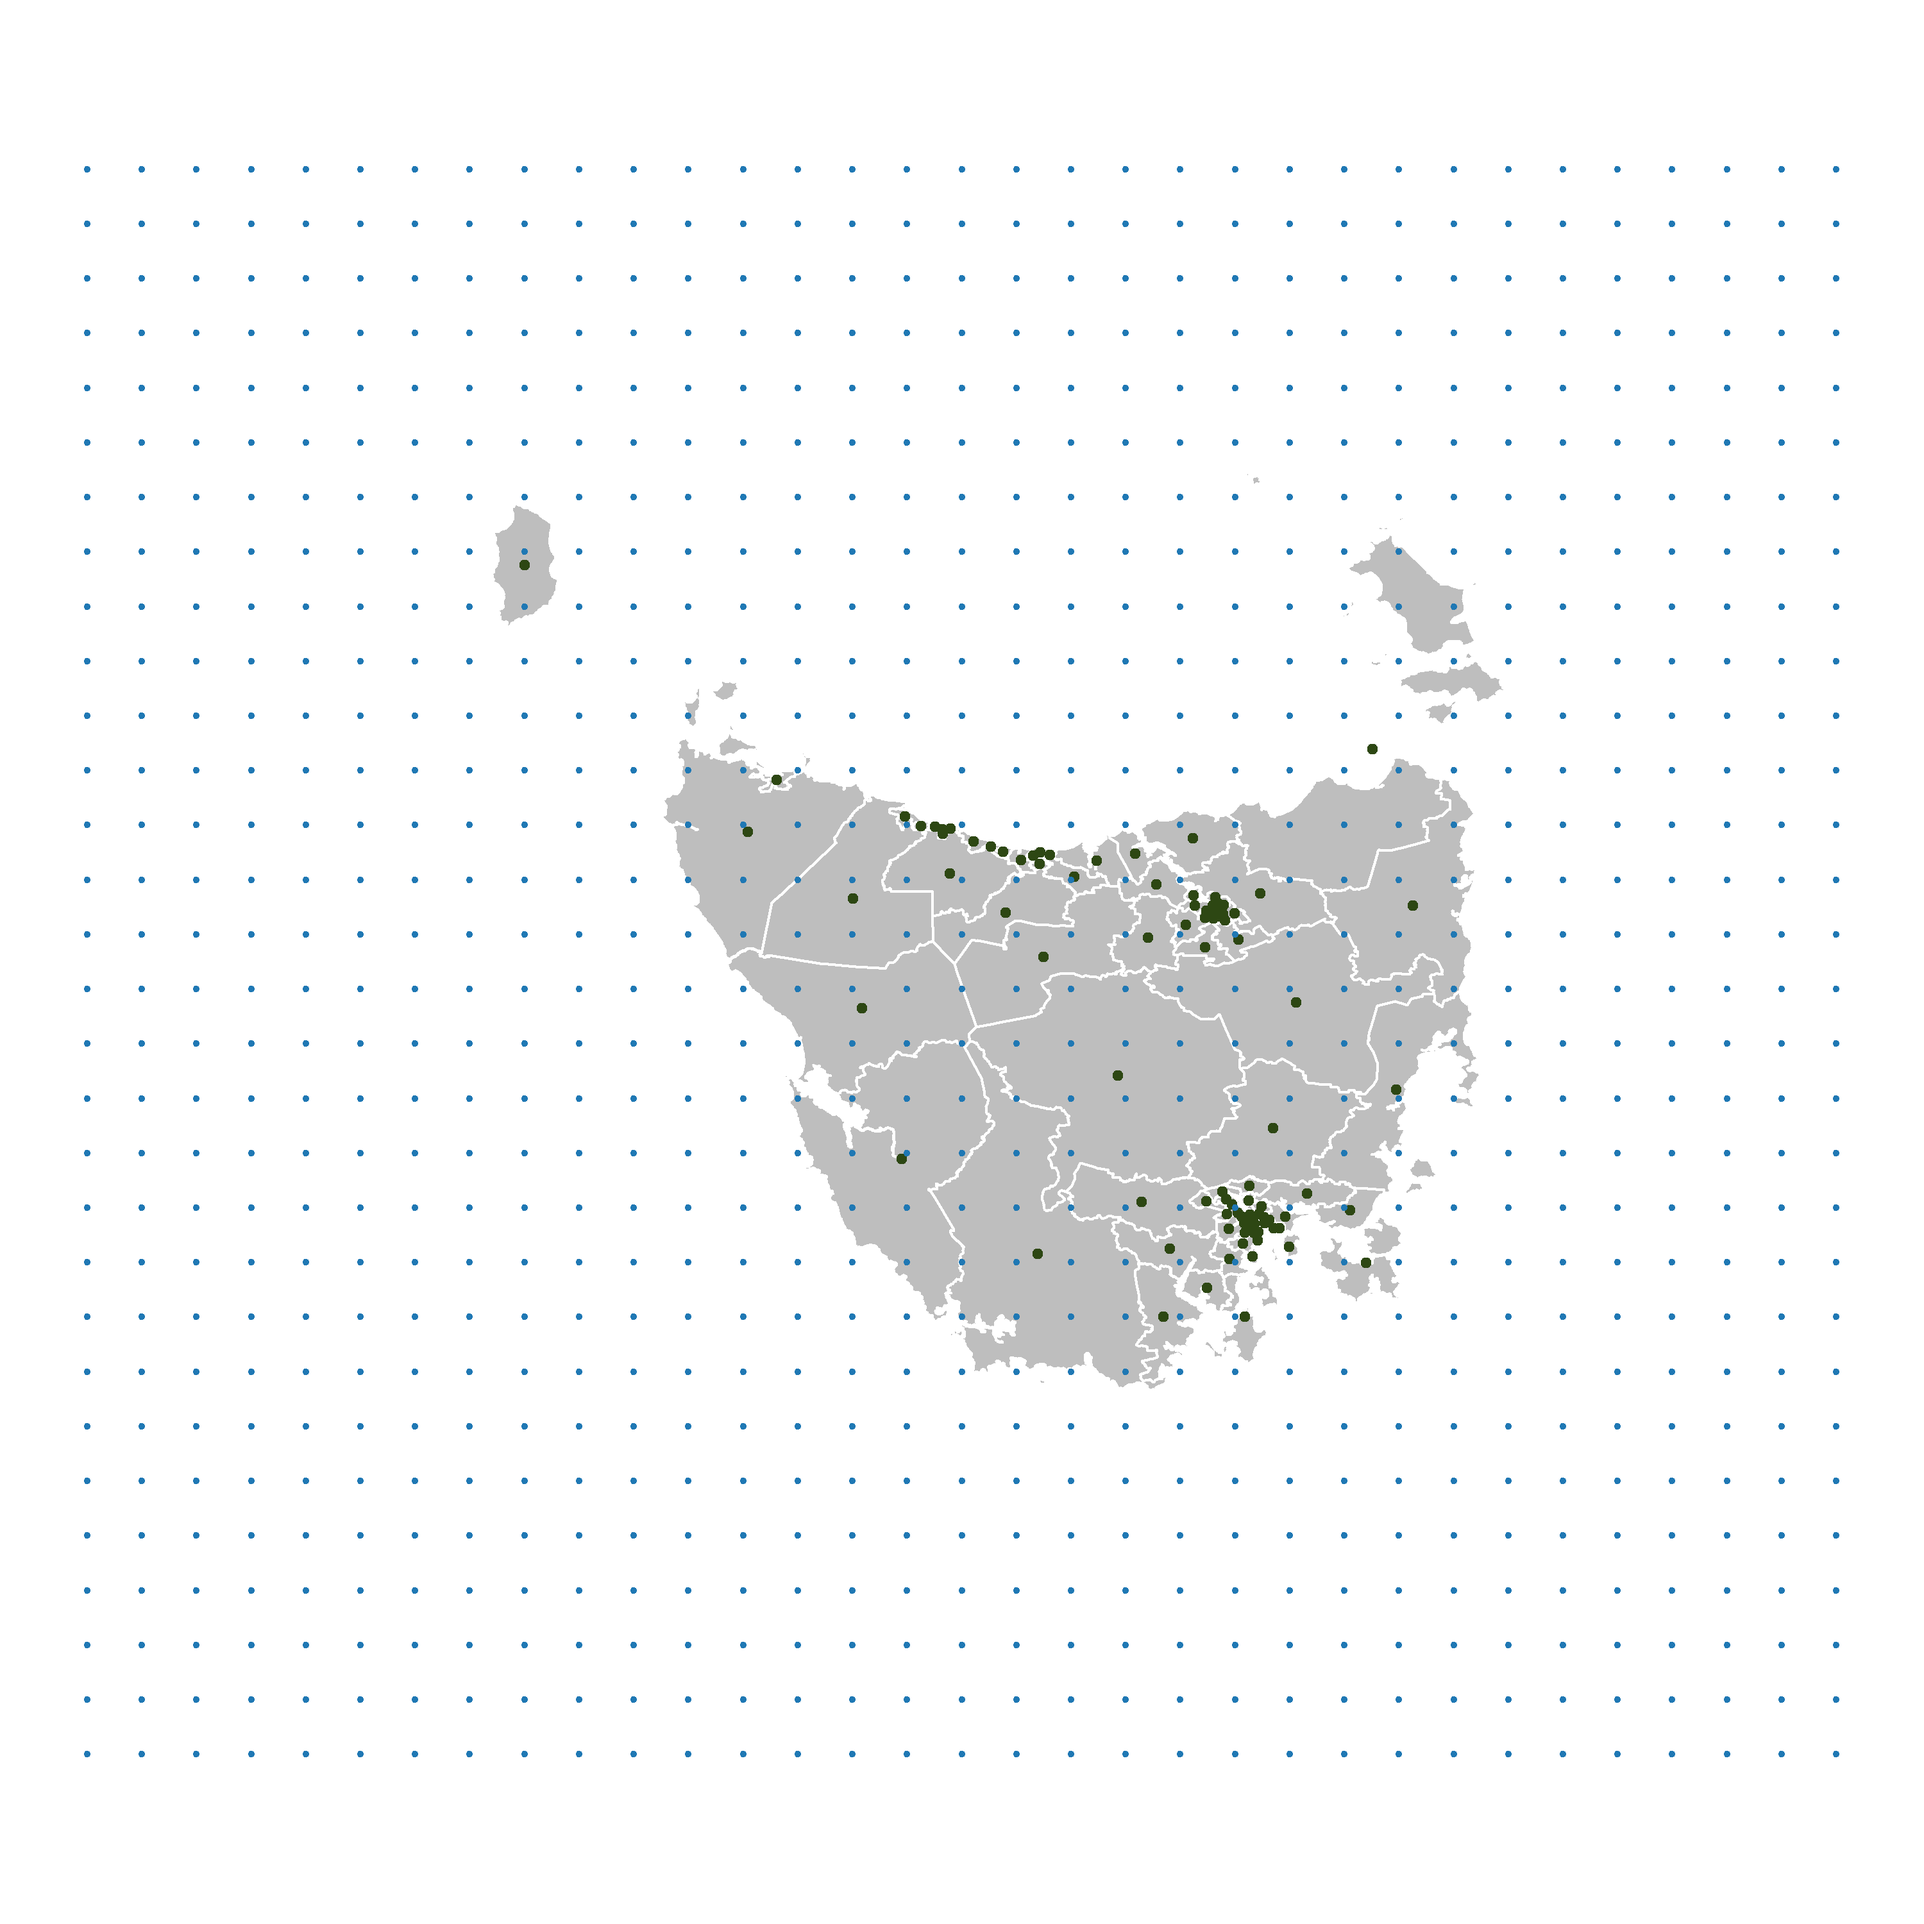
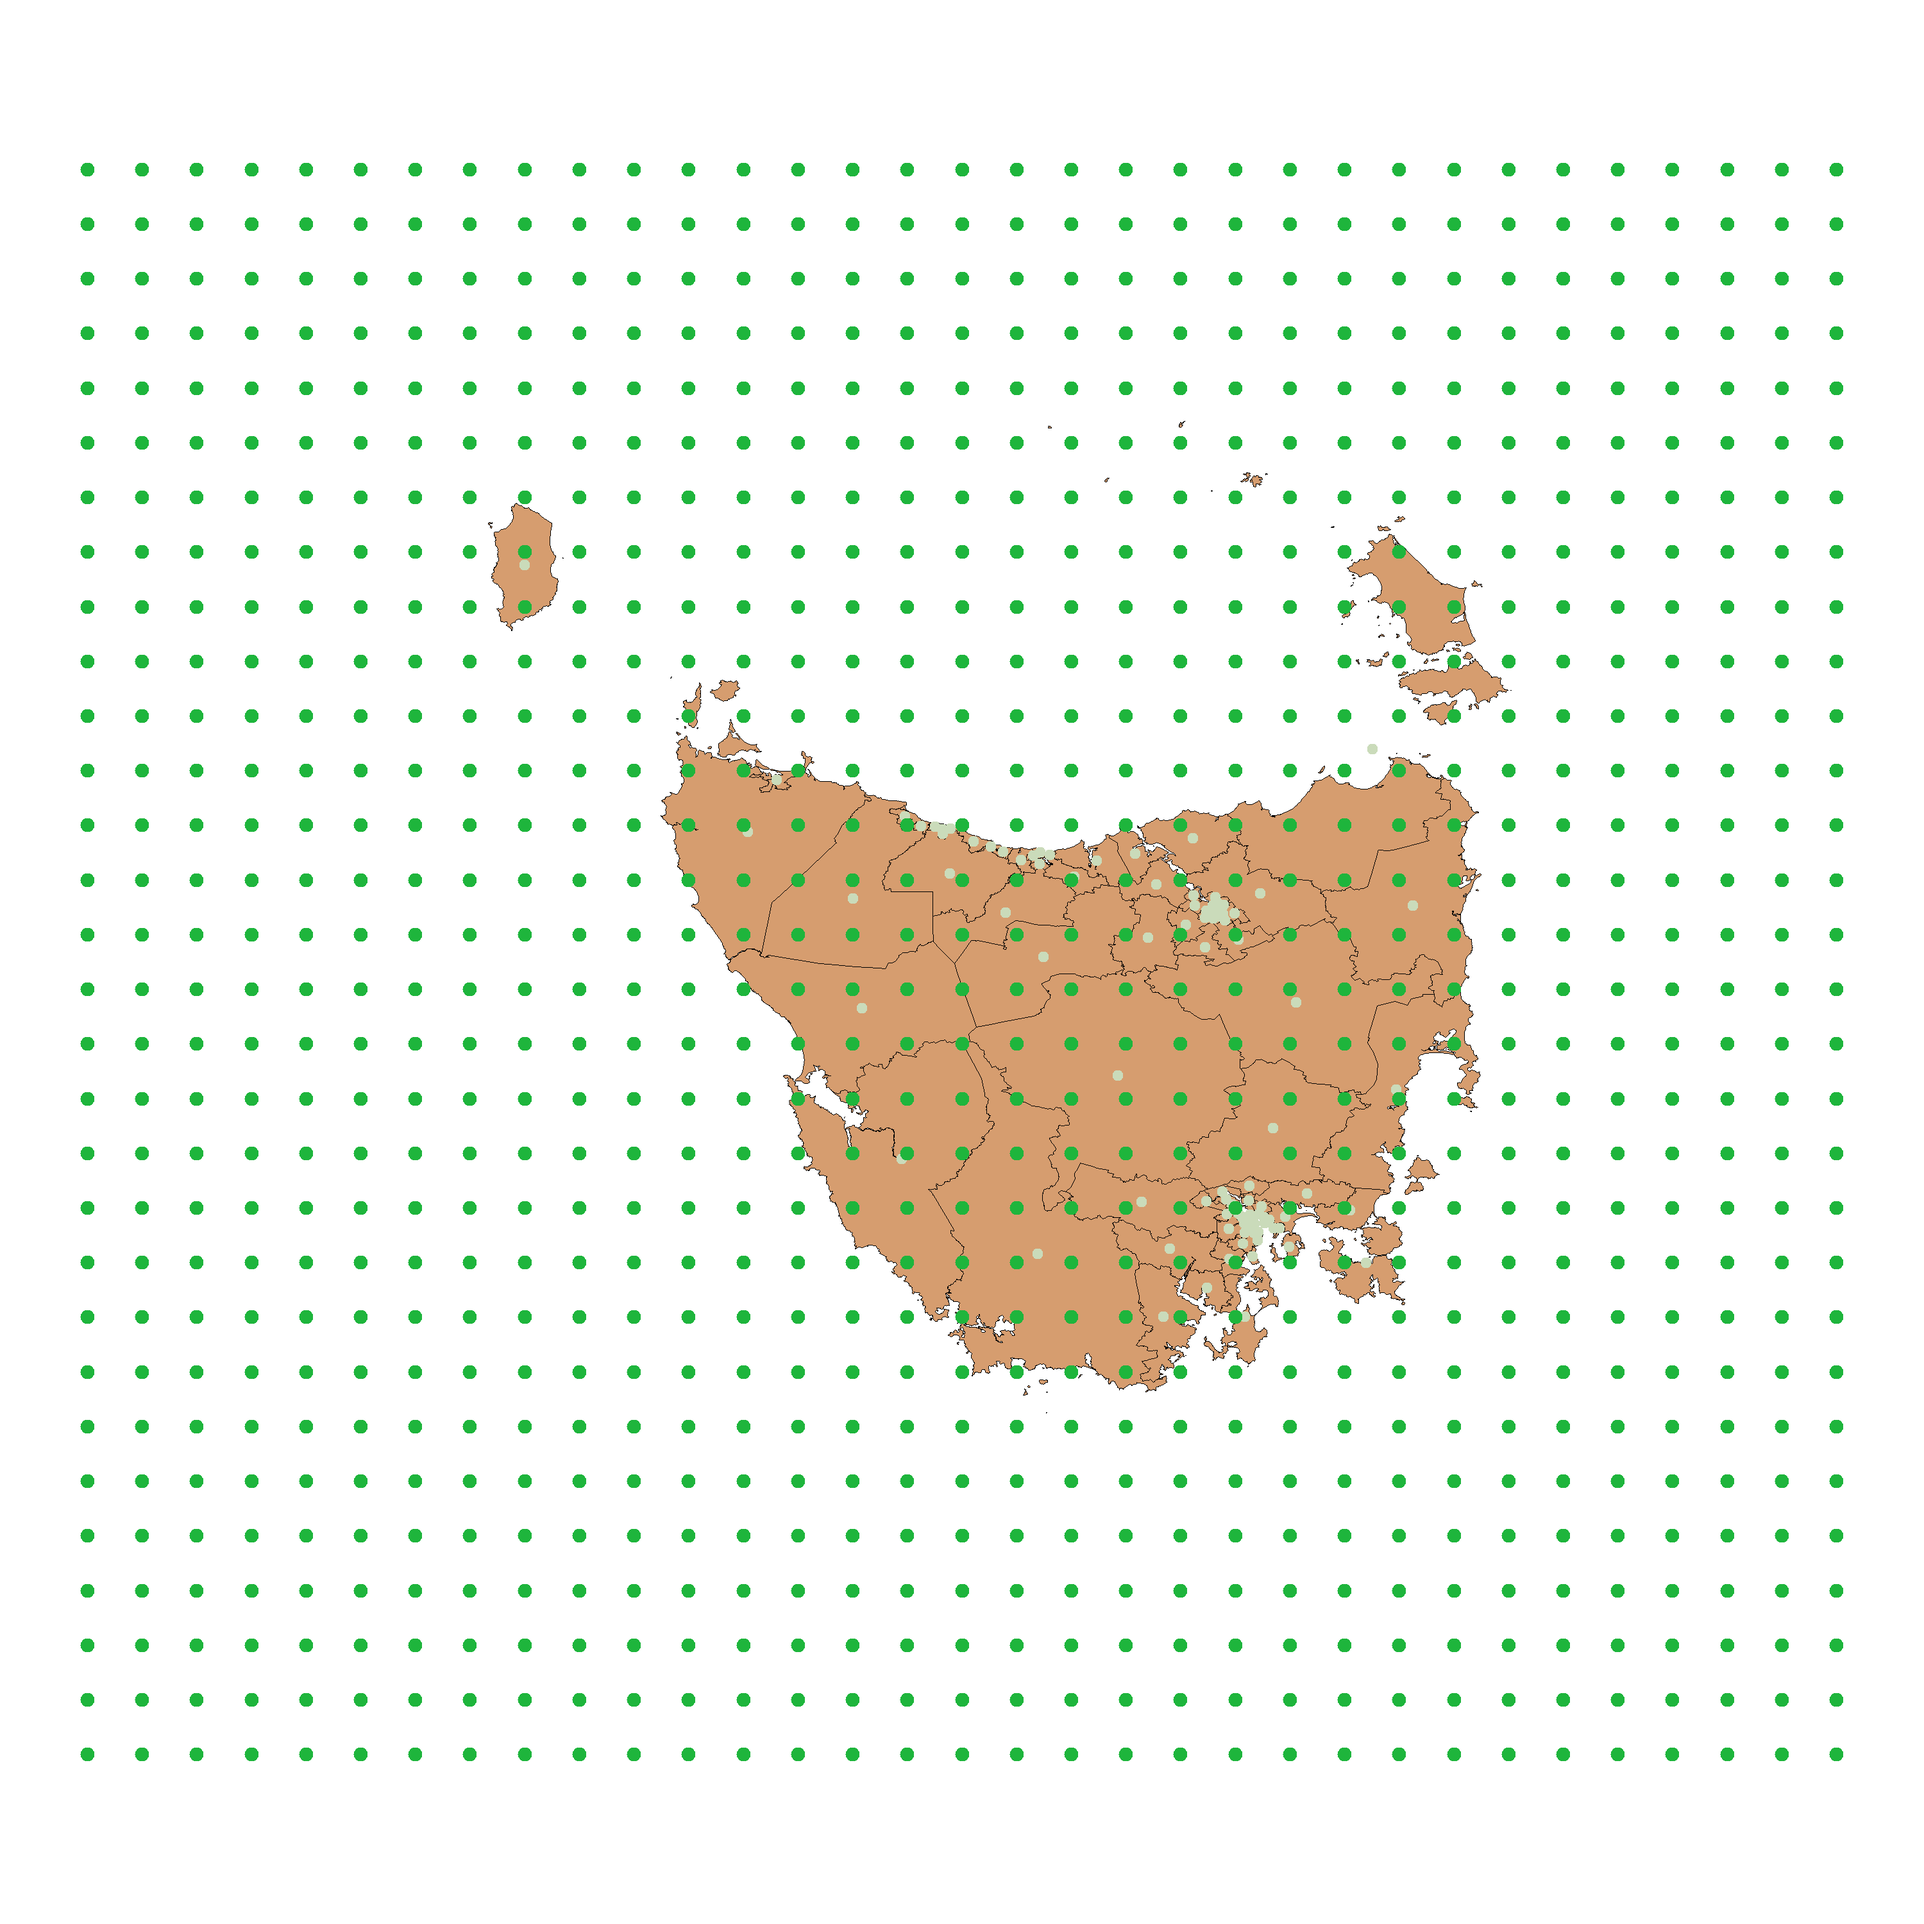
dark background colours

Changed region(s): [[0.341, 0.279, 0.806, 0.744], [0.248, 0.248, 0.31, 0.341]]

diff --git a/index.html b/index.html
@@ -49,7 +49,7 @@ This is an online, interactive web tool for exploring the impact of cancer on Au
 class: top, center
 
 background-image: url(figures/aus.png)
-background-position: 50% 75%
+
 background-size: 80%
 
 # States and Territories
@@ -71,7 +71,7 @@ class: inverse, center, middle
 class: top, center
 
 background-image: url(figures/quote.png)
-background-position: 50% 75%
+
 background-size: 80%
 
 ???
@@ -87,7 +87,7 @@ here the largest state with the darkest colour draws our attention.
 class: center, top
 
 background-image: url(figures/aus.png)
-background-position: 50% 75%
+
 background-size: 80%
 
 # What are we missing?
@@ -96,7 +96,7 @@ background-size: 80%
 class: center, top
 
 background-image: url(figures/aus_states.png)
-background-position: 50% 75%
+
 background-size: 80%
 
 # Australian Capital Territory
@@ -156,23 +156,19 @@ We can use this idea of small communities to drive research into the spatial dis
 ---
 
 
-class: bottom, center
+class: maps, bottom, center
 
 background-image: url(figures/aus_liver_f.png)
-background-position: 50% 10%
-background-size: 70%
-
 
 ## Liver
 Incidence for females
 ---
 
 
-class: bottom, center
+class: maps, bottom, center
 
 background-image: url(figures/aus_liver_f_hex.png)
-background-position: 50% 10%
-background-size: 70%
+
 
 
 ## Liver
@@ -181,11 +177,9 @@ Incidence for females
 ---
 
 
-class: bottom, center
+class: maps, bottom, center
 
 background-image: url(figures/aus_liver_m.png)
-background-position: 50% 10%
-background-size: 70%
 
 
 ## Liver
@@ -193,22 +187,18 @@ Incidence for males
 ---
 
 
-class: bottom, center
+class: maps, bottom, center
 
 background-image: url(figures/aus_liver_m_hex.png)
-background-position: 50% 10%
-background-size: 70%
 
 
 ## Liver
 Incidence for males
 ---
 
-class: bottom, center
+class: maps, bottom, center
 
 background-image: url(figures/aus_melanoma_p.png)
-background-position: 50% 10%
-background-size: 70%
 
 
 ## Melanoma
@@ -216,110 +206,92 @@ Incidence for males
 ---
 
 
-class: bottom, center
-
+class: maps, bottom, center
 background-image: url(figures/aus_melanoma_p_hex.png)
-background-position: 50% 10%
-background-size: 70%
 
 
 # Melanoma
 Incidence for males
 
 ---
-class: top, center
+
+class: maps, bottom, center
 
 
 background-image: url(figures/sugarbag.png)
-background-position: 50% 80%
+background-position: 50% 50%
 background-size: 60%
-
 
 ???
 When the goal is to see the population, there are several visualisation methods that have been developed.
-This display shows a contiguous cartogram, noncontiguous cartogram, dorling cartogram and a hexagon tile map.
 
 ---
-class: top, center
+
+class: algorithm, center, top
 
 background-image: url(figures/tas_centroids.png)
-background-position: 50% 75%
-background-size: 70%
 
 # Tasmania: 98 SA2 regions
 ---
-class: top, center
+class: algorithm, center, top
 
 background-image: url(figures/tas_1grid.png)
-background-position: 50% 75%
-background-size: 70%
 
 # Create a square grid
 
 ---
-class: top, center
+
+class: algorithm, center, top
 
 background-image: url(figures/tas_2hexgrid.png)
-background-position: 50% 75%
-background-size: 70%
 
 # Create a hexagon grid
 
 ---
-class: top, center
+class: algorithm, center, top
 
 background-image: url(figures/tas_3buffer.png)
-background-position: 50% 75%
-background-size: 70%
 
 # Strategic buffering
 
 ---
-class: top, center
+class: algorithm, center, top
 
 background-image: url(figures/tas_4centroid1.png)
-background-position: 50% 75%
-background-size: 70%
 
 # Begin allocating centroids
 
 ---
-class: top, center
+class: algorithm, center, top
 
 background-image: url(figures/tas_5centroid1.png)
-background-position: 50% 75%
-background-size: 70%
 
 # Circular filter
 
 ---
-class: top, center
+class: algorithm, center, top
 
 background-image: url(figures/tas_6centroid1.png)
-background-position: 50% 75%
-background-size: 70%
 
 # Pie slice filter
 
 ---
-class: top, center
+class: algorithm, center, top
 
 background-image: url(figures/tas_7centroid1.png)
-background-position: 50% 75%
-background-size: 70%
+
+# Pie slice filter
+
+---
+class: algorithm, center, top
+
+background-image: url(figures/tas_8centroid1.png)
+
+
 # Closest available point
 
 ---
-class: top, center
-
-background-image: url(figures/tas_8centroid1.png)
-background-position: 50% 75%
-background-size: 70%
-
-# Pie slice filter
-
----
-class: top, center
+class: algorithm, center, top
 
 background-image: url(figures/tas_9end.png)
 background-position: 50% 60%

diff --git a/sugarbag.css b/sugarbag.css
@@ -22,7 +22,8 @@ a, a > code {
   colour: #2d4713;
 }
 
-.remark-code-line-highlighted     { background-color: #fce300 ; }
+.remark-code-line-highlighted     { 
+  background-color: #fce300 ; }
 
 .remark-slide-content {
   border-top: 8px solid #a2d3db;
@@ -55,6 +56,27 @@ a, a > code {
   color: #d69d6f;
 }
 
+.maps {
+  background-position: 50% 10%;
+  background-size: 70%;
+  background-color: #4C3E36;
+  color: #d69d6f;
+}
+
+.maps h1, .maps h2, .maps h3{
+  color: #a2d3db;
+}
+
+.algorithm {
+  background-position: 50% 75%;;
+  background-size: 70%;
+  background-color: #033F37;
+  color: #d69d6f;
+}
+
+.algorithm h1, .algorithm h2, .algorithm h3{
+  color: #C7DCE8;
+}
 .table {
   margin: auto;
   font-size: 90%;
